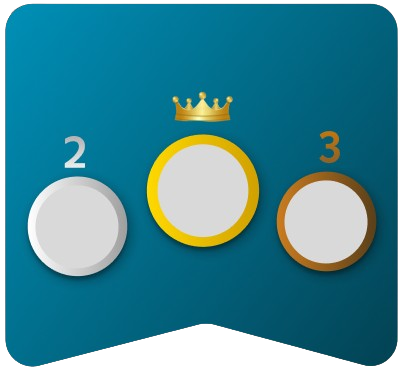
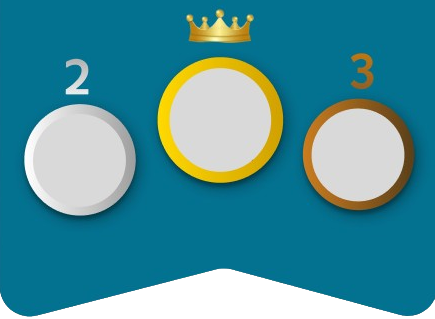
65% compleeted from leaderboard page and add points bars .dart

diff --git a/lib/zayed/Screens/zayed_leaderboard_page.dart b/lib/zayed/Screens/zayed_leaderboard_page.dart
@@ -1,0 +1,151 @@
+import 'package:flutter/material.dart';
+import 'package:gamify_project/zayed/Screens/zayed_points_bars.dart';
+
+void main() {
+  runApp(const Zayed_leaderboard_page());
+}
+
+class Zayed_leaderboard_page extends StatelessWidget {
+  const Zayed_leaderboard_page({super.key});
+
+  @override
+  Widget build(BuildContext context) {
+    final double screenHeight = MediaQuery.of(context).size.height;
+
+    return MaterialApp(
+      debugShowCheckedModeBanner: false,
+      theme: ThemeData.light(useMaterial3: true),
+      home: Scaffold(
+        backgroundColor: const Color(0xFFe4e4e4),
+        // AppBar
+        appBar: AppBar(
+          backgroundColor: const Color(0xFF037190),
+          centerTitle: true,
+          toolbarHeight: screenHeight * 0.08, // Adjust height based on screen size
+          // Menu icon
+          leading: Padding(
+            padding: EdgeInsets.only(bottom: screenHeight * 0.0),
+            child: IconButton(
+              icon: Icon(
+                Icons.menu,
+                size: screenHeight * 0.059, // Responsive size
+                color: const Color.fromARGB(255, 255, 255, 255),
+              ),
+              onPressed: () {},
+            ),
+          ),
+          // Title
+          title: Padding(
+            padding: EdgeInsets.only(bottom: screenHeight * 0.0),
+            child: Text(
+              "Gamify",
+              style: TextStyle(
+                color: const Color.fromARGB(255, 255, 255, 255),
+                fontSize: screenHeight * 0.045, // Responsive font size
+              ),
+            ),
+          ),
+          // Notification icon
+          actions: [
+            Padding(
+              padding: EdgeInsets.only(bottom: screenHeight * 0.0),
+              child: IconButton(
+                icon: Icon(
+                  Icons.notifications_none,
+                  size: screenHeight * 0.045, // Responsive size
+                  color: const Color.fromARGB(255, 255, 255, 255),
+                ),
+                onPressed: () {},
+              ),
+            ),
+          ],
+        ),
+
+        // Main content of the page
+        body: Stack(
+            children: [
+              // Image at the top of the page
+              Image.asset(
+                'assets/img/bestponitNav.png', // Path to the image
+                height: screenHeight * 0.345, // Adjust height
+                fit: BoxFit.none, // Maintain aspect ratio
+              ),
+              Positioned(
+                top: screenHeight * 0.1175,
+                right: screenHeight * 0.0215, // Adjust position
+                child: Container(
+                  height: screenHeight * 0.1, // Circle size (adjust to match image circles)
+                  width: screenHeight * 0.1,
+                  decoration: BoxDecoration(
+                    color: const Color.fromARGB(255, 222, 220, 220),
+                    shape: BoxShape.circle,
+                  ),
+                ),
+              ),
+
+              Positioned(
+                top: screenHeight * 0.074,
+                right: screenHeight * 0.166, // Adjust position
+                child:Container(
+                  height: screenHeight * 0.11, // Circle size (adjust to match image circles)
+                  width: screenHeight * 0.11,
+                  decoration: BoxDecoration(
+                    color: const Color.fromARGB(255, 219, 216, 216),
+                    shape: BoxShape.circle,
+                  ),
+                ),
+              ),
+
+              Positioned(
+                top: screenHeight * 0.123,
+                left: screenHeight * 0.024, // Adjust position
+                child: Container(
+                  height: screenHeight * 0.1, // Circle size (adjust to match image circles)
+                  width: screenHeight * 0.1,
+                  decoration: BoxDecoration(
+                    color: const Color.fromARGB(255, 216, 215, 215),
+                    shape: BoxShape.circle,
+                  ),
+                ),
+              ),
+              Container(
+                // most add the bars here .
+              ),
+            ],
+        ),
+
+        // Bottom Navigation Bar
+        bottomNavigationBar: Container(
+          color: Colors.white,
+          padding: EdgeInsets.only(bottom: screenHeight * 0.02),
+          height: screenHeight * 0.1, // Responsive height
+          child: Row(
+            mainAxisAlignment: MainAxisAlignment.spaceAround,
+            children: <Widget>[
+              _buildNavItem(Icons.home, "Home", Colors.grey, screenHeight),
+              _buildNavItem(Icons.menu_book_rounded, "Courses",
+                  const Color.fromARGB(197, 0, 129, 189), screenHeight),
+              _buildNavItem(Icons.videogame_asset, "Games", Colors.grey,
+                  screenHeight),
+              _buildNavItem(Icons.person, "Profile", Colors.grey, screenHeight),
+            ],
+          ),
+        ),
+      ),
+    );
+  }
+
+  Widget _buildNavItem(
+      IconData icon, String label, Color color, double screenHeight) {
+    return Column(
+      mainAxisAlignment: MainAxisAlignment.center,
+      children: <Widget>[
+        Icon(icon, color: color, size: screenHeight * 0.04),
+        Text(
+          label,
+          style: TextStyle(color: color, fontSize: screenHeight * 0.02),
+        ),
+      ],
+    );
+  }
+}

diff --git a/lib/zayed/Screens/zayed_points_bars.dart b/lib/zayed/Screens/zayed_points_bars.dart
@@ -1,0 +1,83 @@
+
+import 'package:flutter/material.dart';
+
+
+class Zayed_points_bars extends StatelessWidget {
+  final String names;
+  final int points;
+
+  const Zayed_points_bars({
+    super.key,
+    required this.names,
+    required this.points,
+  });
+
+  @override
+  Widget build(BuildContext context) {
+    return Container(
+      margin: const EdgeInsets.fromLTRB(17, 0, 0, 0),
+      width: 400,
+      height: 199,
+      child: SizedBox(
+        width: 323,
+        height: 22,
+        child: Stack(
+          children: [
+            // Reposition the ElevatedButton using Positioned
+            Positioned(
+              top: 0,
+              left: 0,
+              right: 10,
+              bottom: 9,
+              child: Padding(
+                padding: const EdgeInsets.fromLTRB(10, 9, 17, 18),
+                child: ElevatedButton(
+                  onPressed: () => {},
+                  style: ElevatedButton.styleFrom(
+                    backgroundColor: const Color.fromARGB(255, 255, 255, 255),
+                    shape: RoundedRectangleBorder(
+                      borderRadius: BorderRadius.circular(20),
+                    ),
+                  ),
+                  child: Container(), // Add an empty container as the child
+                ),
+              ),
+            ),
+            Positioned(
+              top: 30,
+              left: 34,
+              child: Text(
+                names,
+                style: TextStyle(
+                  fontSize: 26,
+                  color: const Color.fromARGB(255, 0, 0, 0),
+                  fontWeight: FontWeight.w700,
+                  letterSpacing: 3,
+                ),
+              ),
+            ),
+          
+            Positioned(
+              top: 82,
+              left: 34,
+              child: SizedBox(
+                width: 320,
+                child: Text(
+                  points.toString(),
+                  style: TextStyle(
+                    fontSize: 17.6,
+                    color: const Color.fromARGB(255, 0, 0, 0),
+                    wordSpacing: 2,
+                    letterSpacing: 1,
+                    fontWeight: FontWeight.w600,
+                  ),
+                ),
+              ),
+            ),
+            
+          ],
+        ),
+      ),
+    );
+  }
+}

diff --git a/lib/zayed/Screens/zayed_lessons_page.dart b/lib/zayed/Screens/zayed_lessons_page.dart
@@ -226,17 +226,15 @@ class Zayed_lessons_page extends StatelessWidget {
     );
   }
 
-  Widget _buildNavItem(
-      IconData icon, String label, Color color, double screenHeight) {
+  Widget _buildNavItem(IconData icon, String label, Color color, double screenHeight) {
     return Column(
-      mainAxisSize: MainAxisSize.min,
-      children: [
-        IconButton(
-          icon: Icon(icon, size: screenHeight * 0.047), // Responsive size
-          color: color,
-          onPressed: () {},
+      mainAxisAlignment: MainAxisAlignment.center,
+      children: <Widget>[
+        Icon(icon, color: color, size: screenHeight * 0.04),
+        Text(
+          label,
+          style: TextStyle(color: color, fontSize: screenHeight * 0.02),
         ),
-        Text(label, style: const TextStyle(height: 0.1)),
       ],
     );
   }
